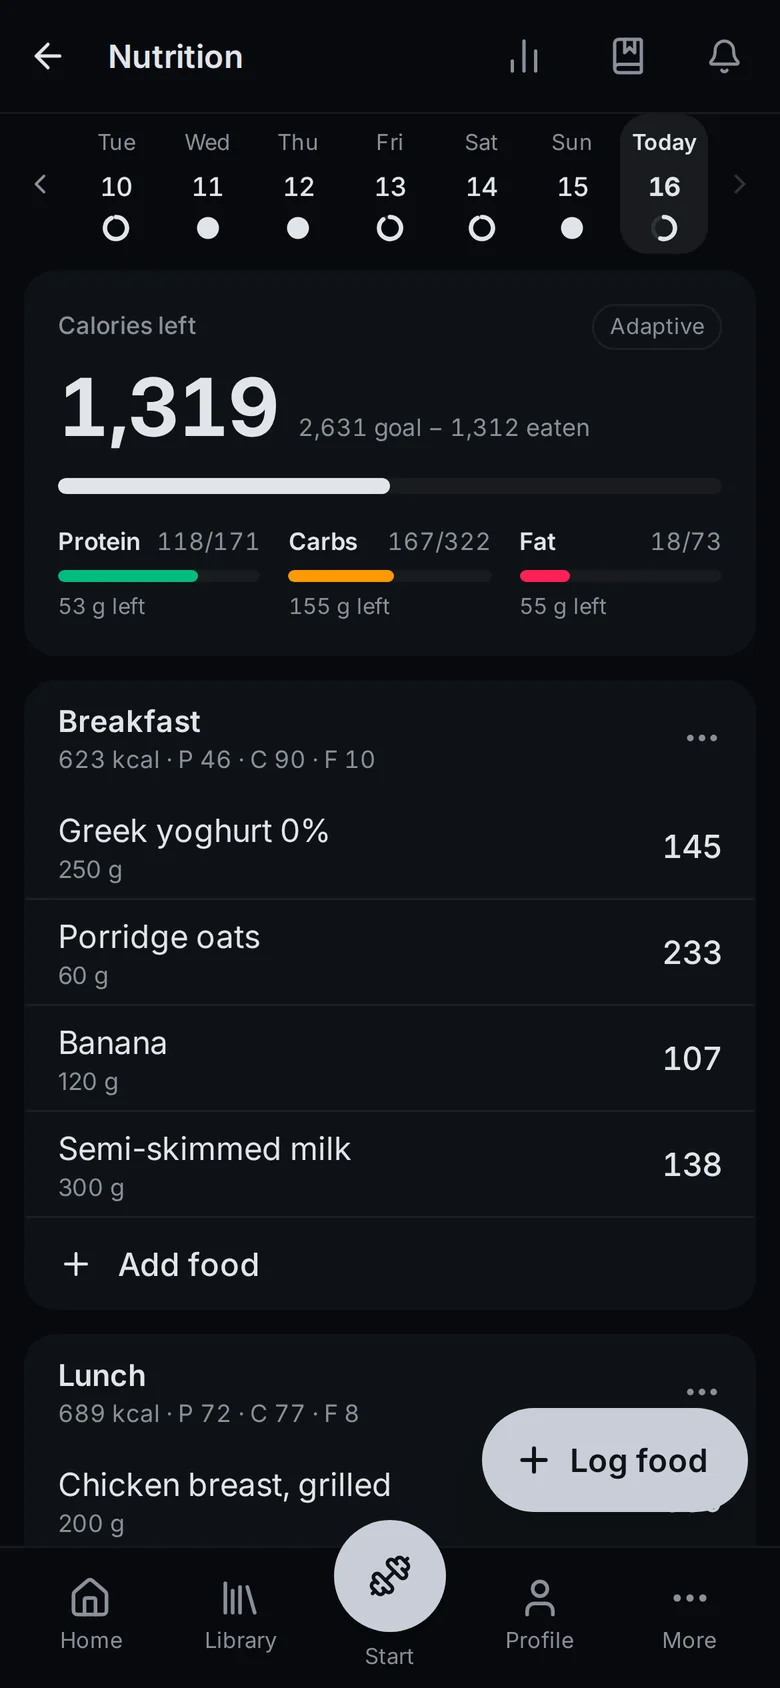
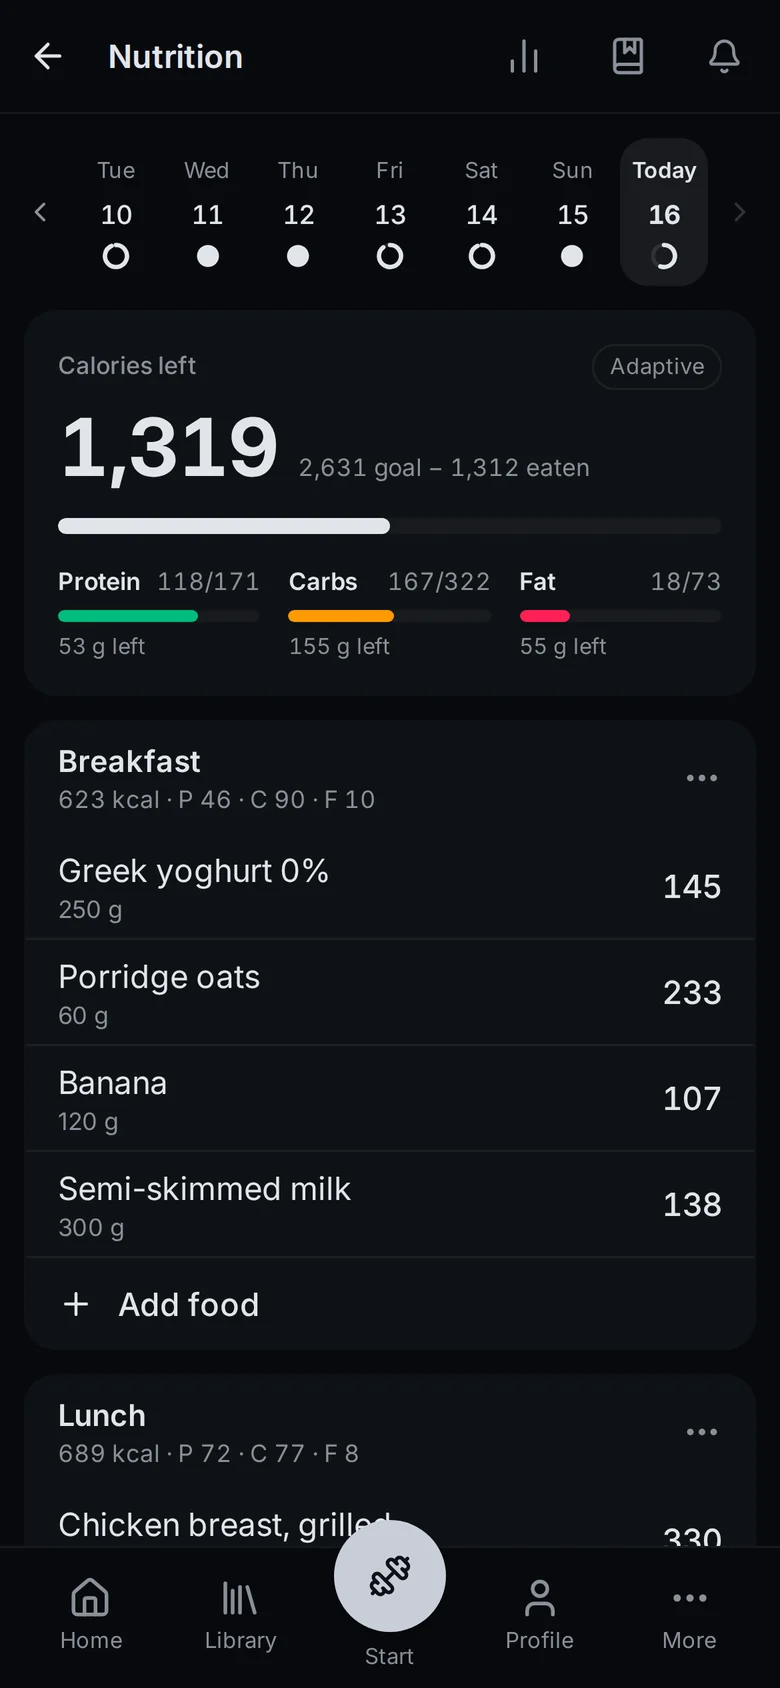
fix(nutrition): drop the floating Log food button, give the week strip room
Each meal already has its own Add food. The week strip gets space above and below and
its days share the width, so it no longer clips at 360 px or with a larger font.
"Same as yesterday" stays on one line. New website screenshot to match.

diff --git a/apps/clients/logit-frontend/src/routes/nutrition/+page.svelte b/apps/clients/logit-frontend/src/routes/nutrition/+page.svelte
@@ -45,7 +45,6 @@
   import { getNutritionTargets } from "@logit/core/usecases/nutrition/getNutritionTargets";
   import { pushMealTemplate, lastSyncedAt } from "$lib/sync/syncService";
   import { profile } from "$lib/stores/profile.store";
-  import { bottomNavHeight } from "$lib/stores/bottomNav.store";
   import { fmtWeight, totalsFor, type NutritionState, type WeightUnit } from "$lib/features/nutrition/nutrition";
   import { basisForItem } from "$lib/features/nutrition/resolveFood";
   import { addItems, saveDay } from "$lib/features/nutrition/diary";
@@ -53,7 +52,7 @@
   import BottomSheet from "$lib/features/nutrition/ui/BottomSheet.svelte";
   import QuickAddSheet from "$lib/features/nutrition/ui/QuickAddSheet.svelte";
   import WeekStrip from "$lib/features/nutrition/ui/WeekStrip.svelte";
-  import { MEAL_LABELS, fmtNum, macroLine, mealForNow } from "$lib/features/nutrition/ui/meals";
+  import { MEAL_LABELS, fmtNum, macroLine } from "$lib/features/nutrition/ui/meals";
   import { chip } from "$lib/features/nutrition/ui/style";
 
   const ui = $state({ loading: true, error: null as string | null });
@@ -310,7 +309,7 @@
   </a>
 </PageHeader>
 
-<div class="flex flex-col pb-28">
+<div class="flex flex-col pb-8">
   <WeekStrip
     endIso={stripEnd}
     selectedIso={dateIso}
@@ -423,9 +422,13 @@
                 <Plus class="size-[18px]" />Add food
               </a>
               {#if yesterday.length}
-                <button type="button" class="flex h-11 flex-[1.3] items-center justify-center gap-1.5 rounded-xl border border-border text-[13px]" onclick={() => void copyFrom(addDays(dateIso, -1), m)}>
-                  <Copy class="size-4" />Same as yesterday
-                  <span class="text-muted-foreground tabular-nums">{fmtNum(yesterday.reduce((n, i) => n + i.computed.kcal, 0))}</span>
+                <button
+                  type="button"
+                  class="flex h-11 flex-1 items-center justify-center gap-1.5 whitespace-nowrap rounded-xl border border-border text-[13px]"
+                  aria-label="Same as yesterday, {fmtNum(yesterday.reduce((n, i) => n + i.computed.kcal, 0))} kcal"
+                  onclick={() => void copyFrom(addDays(dateIso, -1), m)}
+                >
+                  <Copy class="size-4 shrink-0" />Same as yesterday
                 </button>
               {/if}
             </div>
@@ -452,13 +455,6 @@
   {/if}
 </div>
 
-<a
-  href={addHref(mealForNow())}
-  class="fixed right-4 z-30 flex h-13 items-center gap-2 rounded-full bg-primary pl-4 pr-5 font-semibold text-primary-foreground shadow-xl"
-  style="bottom: {$bottomNavHeight + 16}px"
->
-  <Plus class="size-5" strokeWidth={2.4} />Log food
-</a>
 
 {#if editing}
   {@const ed = editing}

diff --git a/apps/clients/logit-frontend/tests/nutrition-smoke.spec.ts b/apps/clients/logit-frontend/tests/nutrition-smoke.spec.ts
@@ -576,14 +576,13 @@ test("the My foods button lists your foods, and one logs from the add screen", a
   await page.getByRole("tab", { name: /Foods/ }).click();
   await expect(page.getByText("Skyr, plain")).toBeVisible();
 
-  // The floating button logs to the meal for this time of day; the search finds the food
-  // whatever the word order.
+  // A meal's Add food opens the search, which finds the food whatever the word order.
   await page.goto("/nutrition");
-  await page.getByRole("link", { name: "Log food" }).click();
+  await page.getByTestId("meal-lunch").getByRole("link", { name: "Add food" }).click();
   await page.waitForURL(/\/nutrition\/log/);
   await page.getByLabel("Search foods").fill("plain skyr");
   await page.getByRole("button", { name: /Skyr, plain/ }).first().click();
-  await page.getByRole("dialog").getByRole("button", { name: /^Add to (Breakfast|Lunch|Dinner|Snacks)$/ }).click();
+  await page.getByRole("dialog").getByRole("button", { name: "Add to Lunch" }).click();
   await expect(page.getByText(/^1 added/)).toBeVisible();
   await page.getByRole("button", { name: "Done" }).click();
   await page.waitForURL(/\/nutrition$/);

diff --git a/apps/clients/logit-frontend/src/lib/features/nutrition/ui/WeekStrip.svelte b/apps/clients/logit-frontend/src/lib/features/nutrition/ui/WeekStrip.svelte
@@ -40,15 +40,15 @@
   }
 </script>
 
-<div class="flex items-center px-1 pb-2">
+<div class="flex items-center px-1 pt-3 pb-3">
   <button type="button" class="flex h-11 w-8 shrink-0 items-center justify-center text-muted-foreground" aria-label="Earlier week" onclick={() => onshift(-1)}>
     <ChevronLeft class="size-4" />
   </button>
-  <div class="flex flex-1 justify-between">
+  <div class="flex min-w-0 flex-1 gap-0.5">
     {#each days as d (d.iso)}
       <button
         type="button"
-        class="flex w-11 flex-col items-center gap-1 rounded-xl py-1.5 {d.iso === selectedIso ? 'bg-muted' : ''}"
+        class="flex min-w-0 flex-1 flex-col items-center gap-1 rounded-xl py-2 {d.iso === selectedIso ? 'bg-muted' : ''}"
         aria-current={d.iso === selectedIso ? "date" : undefined}
         aria-label="{d.iso}{d.kcal ? `, ${Math.round(d.kcal)} kcal` : ', nothing logged'}"
         onclick={() => onselect(d.iso)}
